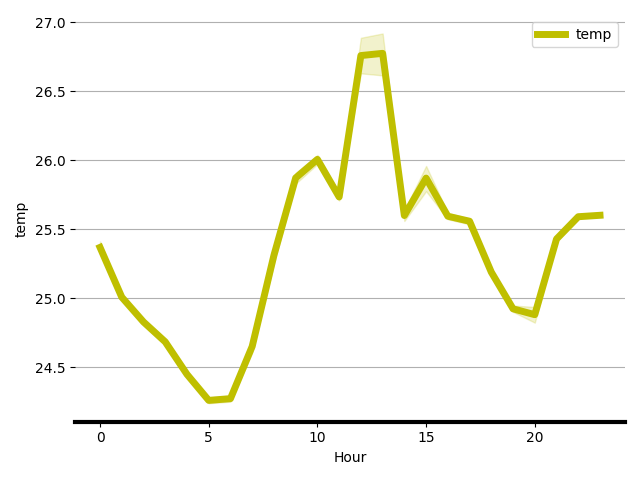
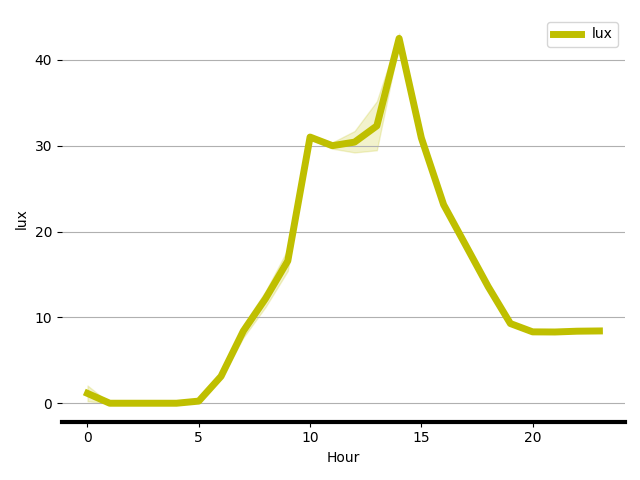
.

diff --git a/test_mini_chamber.py b/test_mini_chamber.py
@@ -72,17 +72,14 @@ def draw_lux_graph(date, y='t&h'):
     df = pd.read_csv(f'output/csv/{date}.csv')
     df = df[['Time', 'temp', 'hum', 'lux']].dropna()
     df['Hour'] = df['Time'].str.split(':').str[0]
-    print(df)
 
     fig, ax1 = plt.subplots()
     color_lux = 'y'
-    sns.lineplot(x=df['Hour'].astype(int), y=df['temp'], ax=ax1, c=color_lux, lw=5, label='temp')
+    sns.lineplot(x=df['Hour'].astype(int), y=df['lux'], ax=ax1, c=color_lux, lw=5, label='lux')
     for s in ["left", "right", "top"]:
         ax1.spines[s].set_visible(False)
     ax1.spines['bottom'].set_linewidth(3)
-
     ax1.grid(axis="y")
-
     ax1.legend(loc='upper right')
 
     plt.tight_layout()
